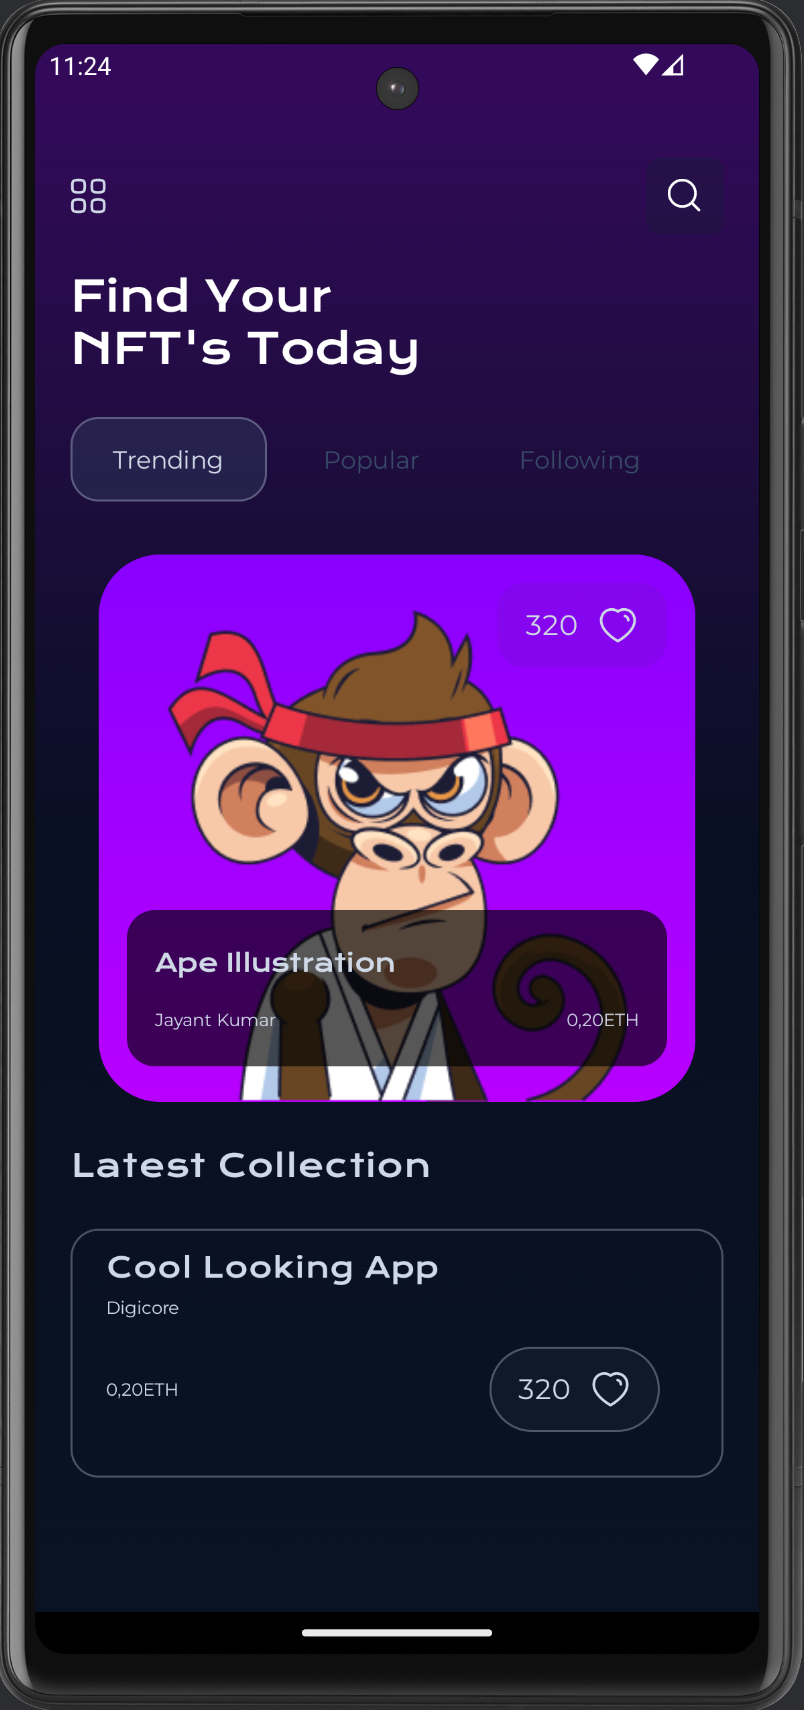
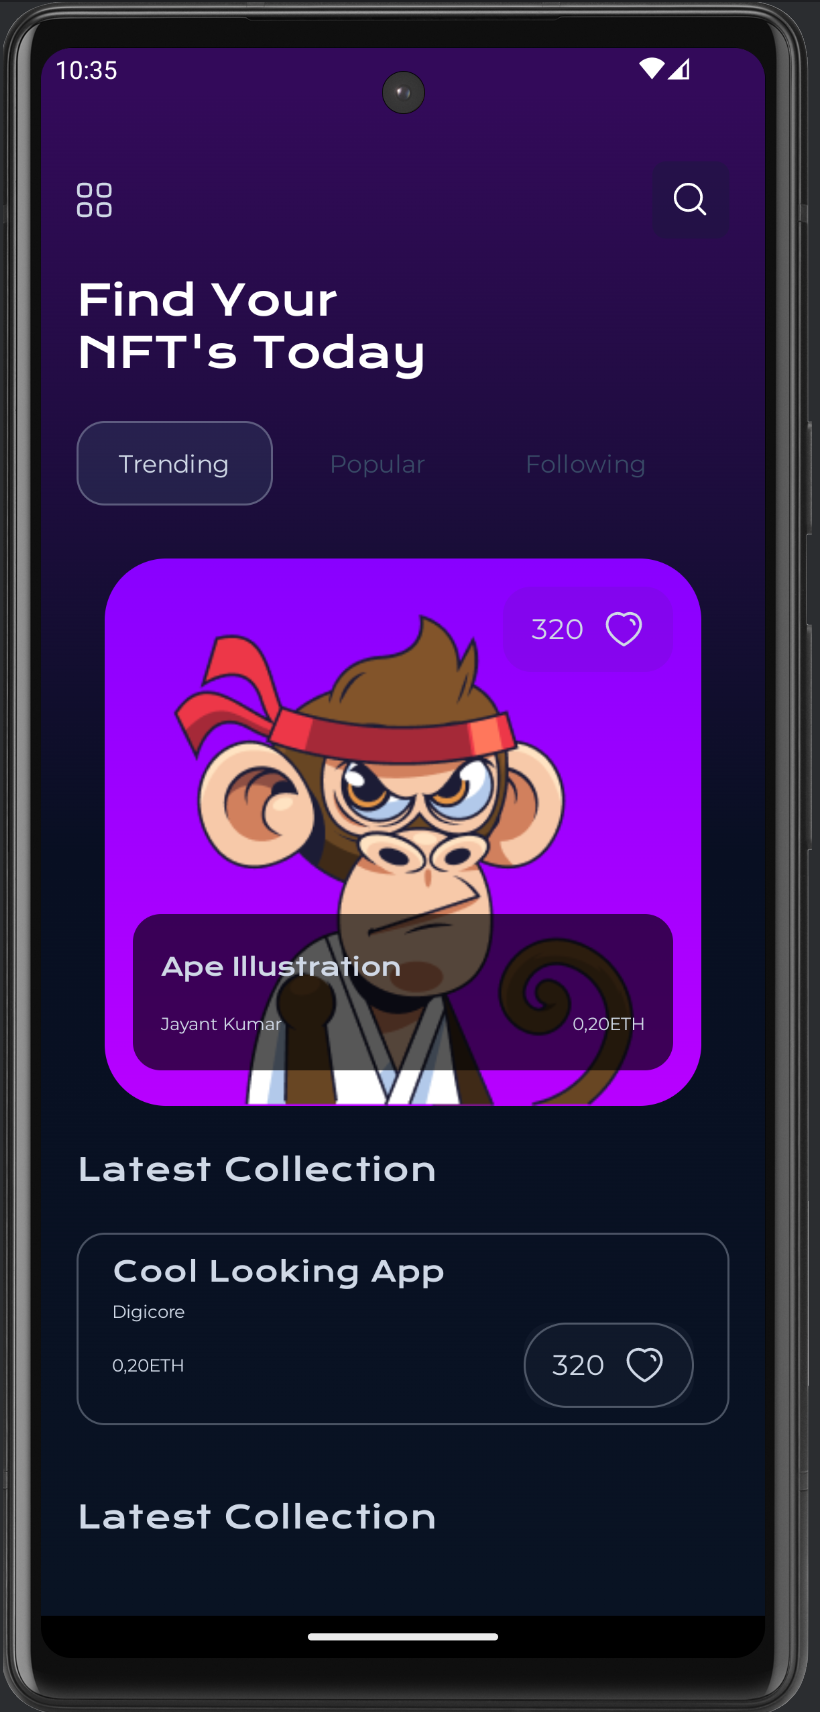
chore(ui): changes in the ui

diff --git a/app/src/main/java/com/nameisjayant/composeprojects/features/screens/NFTMobileScreen.kt b/app/src/main/java/com/nameisjayant/composeprojects/features/screens/NFTMobileScreen.kt
@@ -56,7 +56,7 @@ fun NFTMobileScreen() {
         header = { NFTHeader() },
         selection = { NFTSelection() },
         section = { nftSectionRow() },
-        collections = { collectionRow() }
+        collections = { collectionList() }
     )
 }
 
@@ -83,10 +83,18 @@ private fun NTFMobileRow(
     }
 }
 
-private fun LazyListScope.collectionRow(
+
+private fun LazyListScope.collectionList() {
+    items(5) {
+        CollectionRow()
+    }
+}
+
+@Composable
+private fun CollectionRow(
     modifier: Modifier = Modifier
 ) {
-    item {
+    Column(modifier = modifier.padding(bottom = 16.dp)) {
         SpacerHeight(24.dp)
         Text(
             text = stringResource(R.string.latest_collection),
@@ -98,7 +106,7 @@ private fun LazyListScope.collectionRow(
         )
         SpacerHeight(24.dp)
         Column(
-            modifier = modifier
+            modifier = Modifier
                 .background(Color.Transparent, RoundedCornerShape(16.dp))
                 .border(
                     1.dp,
@@ -133,23 +141,7 @@ private fun LazyListScope.collectionRow(
                     ),
                     modifier = Modifier.weight(1f)
                 )
-                Row(
-                    verticalAlignment = Alignment.CenterVertically, modifier = Modifier
-                        .padding(16.dp)
-                        .background(Color(0XFF1d283a).copy(0.33f), CircleShape)
-                        .border(1.dp, NFTGrayColor.copy(alpha = 0.33f), CircleShape)
-                        .padding(vertical = 12.dp, horizontal = 16.dp)
-                ) {
-                    Text(
-                        text = stringResource(R.string._320),
-                        style = androidx.compose.material3.LocalTextStyle.current.copy(
-                            fontFamily = montserratFont,
-                            color = NFTGrayColor
-                        )
-                    )
-                    SpacerWidth()
-                    AppIcon(icon = R.drawable.heart)
-                }
+                LikeRow(isBorder = true, bg = Color(0XFF1d283a).copy(0.33f))
             }
         }
     }
@@ -166,23 +158,7 @@ private fun LazyListScope.nftSectionRow(
                 .background(NFTSectionColor, RoundedCornerShape(35.dp))
                 .fillMaxWidth()
         ) {
-            Row(
-                verticalAlignment = Alignment.CenterVertically, modifier = Modifier
-                    .padding(16.dp)
-                    .background(Color(0XFF700eca).copy(0.33f), RoundedCornerShape(16.dp))
-                    .padding(vertical = 12.dp, horizontal = 16.dp)
-                    .align(Alignment.TopEnd)
-            ) {
-                Text(
-                    text = stringResource(R.string._320),
-                    style = androidx.compose.material3.LocalTextStyle.current.copy(
-                        fontFamily = montserratFont,
-                        color = NFTGrayColor
-                    )
-                )
-                SpacerWidth()
-                AppIcon(icon = R.drawable.heart)
-            }
+            LikeRow(modifier = Modifier.align(Alignment.TopEnd))
             Image(
                 painter = painterResource(id = R.drawable.monkey),
                 contentDescription = null,
@@ -227,6 +203,36 @@ private fun LazyListScope.nftSectionRow(
                 }
             }
         }
+    }
+}
+
+@Composable
+private fun LikeRow(
+    modifier: Modifier = Modifier,
+    isBorder: Boolean = false,
+    bg: Color = Color(0XFF700eca).copy(0.33f)
+) {
+    Row(
+        verticalAlignment = Alignment.CenterVertically, modifier = modifier
+            .padding(if (isBorder) 0.dp else 16.dp)
+            .background(bg, RoundedCornerShape(16.dp))
+            .border(
+                1.dp,
+                if (isBorder) NFTGrayColor.copy(alpha = 0.33f) else Color.Transparent,
+                CircleShape
+            )
+            .padding(vertical = 12.dp, horizontal = 16.dp)
+
+    ) {
+        Text(
+            text = stringResource(R.string._320),
+            style = androidx.compose.material3.LocalTextStyle.current.copy(
+                fontFamily = montserratFont,
+                color = NFTGrayColor
+            )
+        )
+        SpacerWidth()
+        AppIcon(icon = R.drawable.heart)
     }
 }
 
